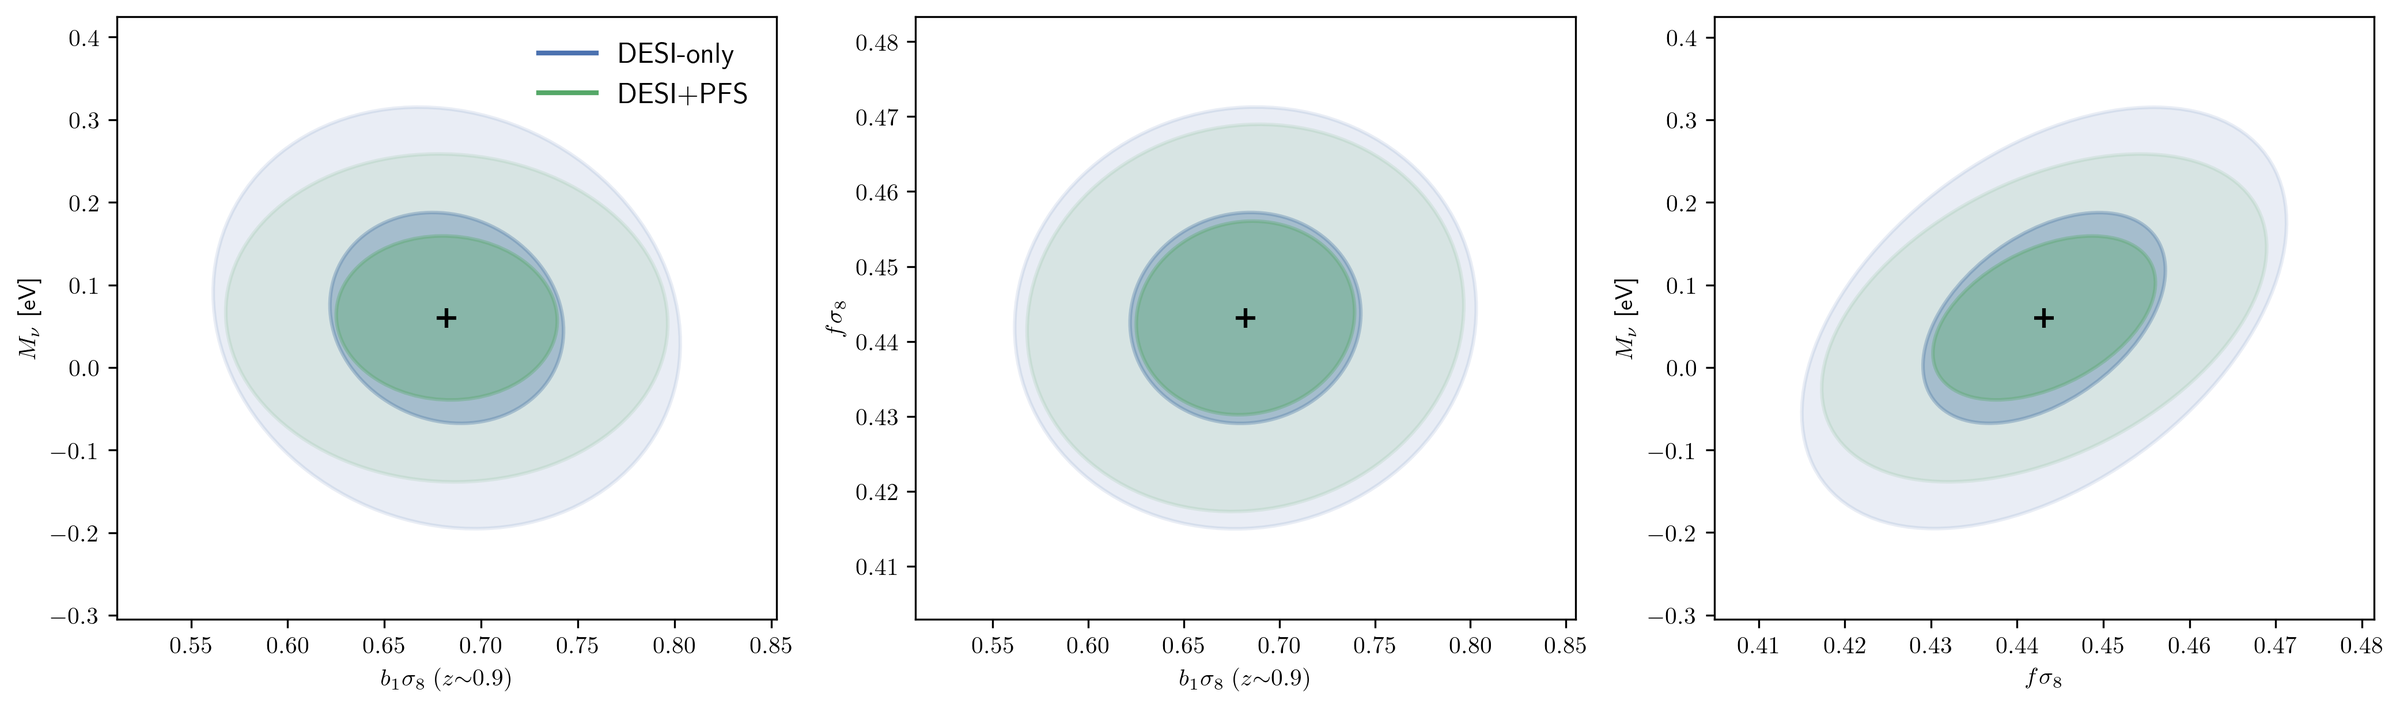
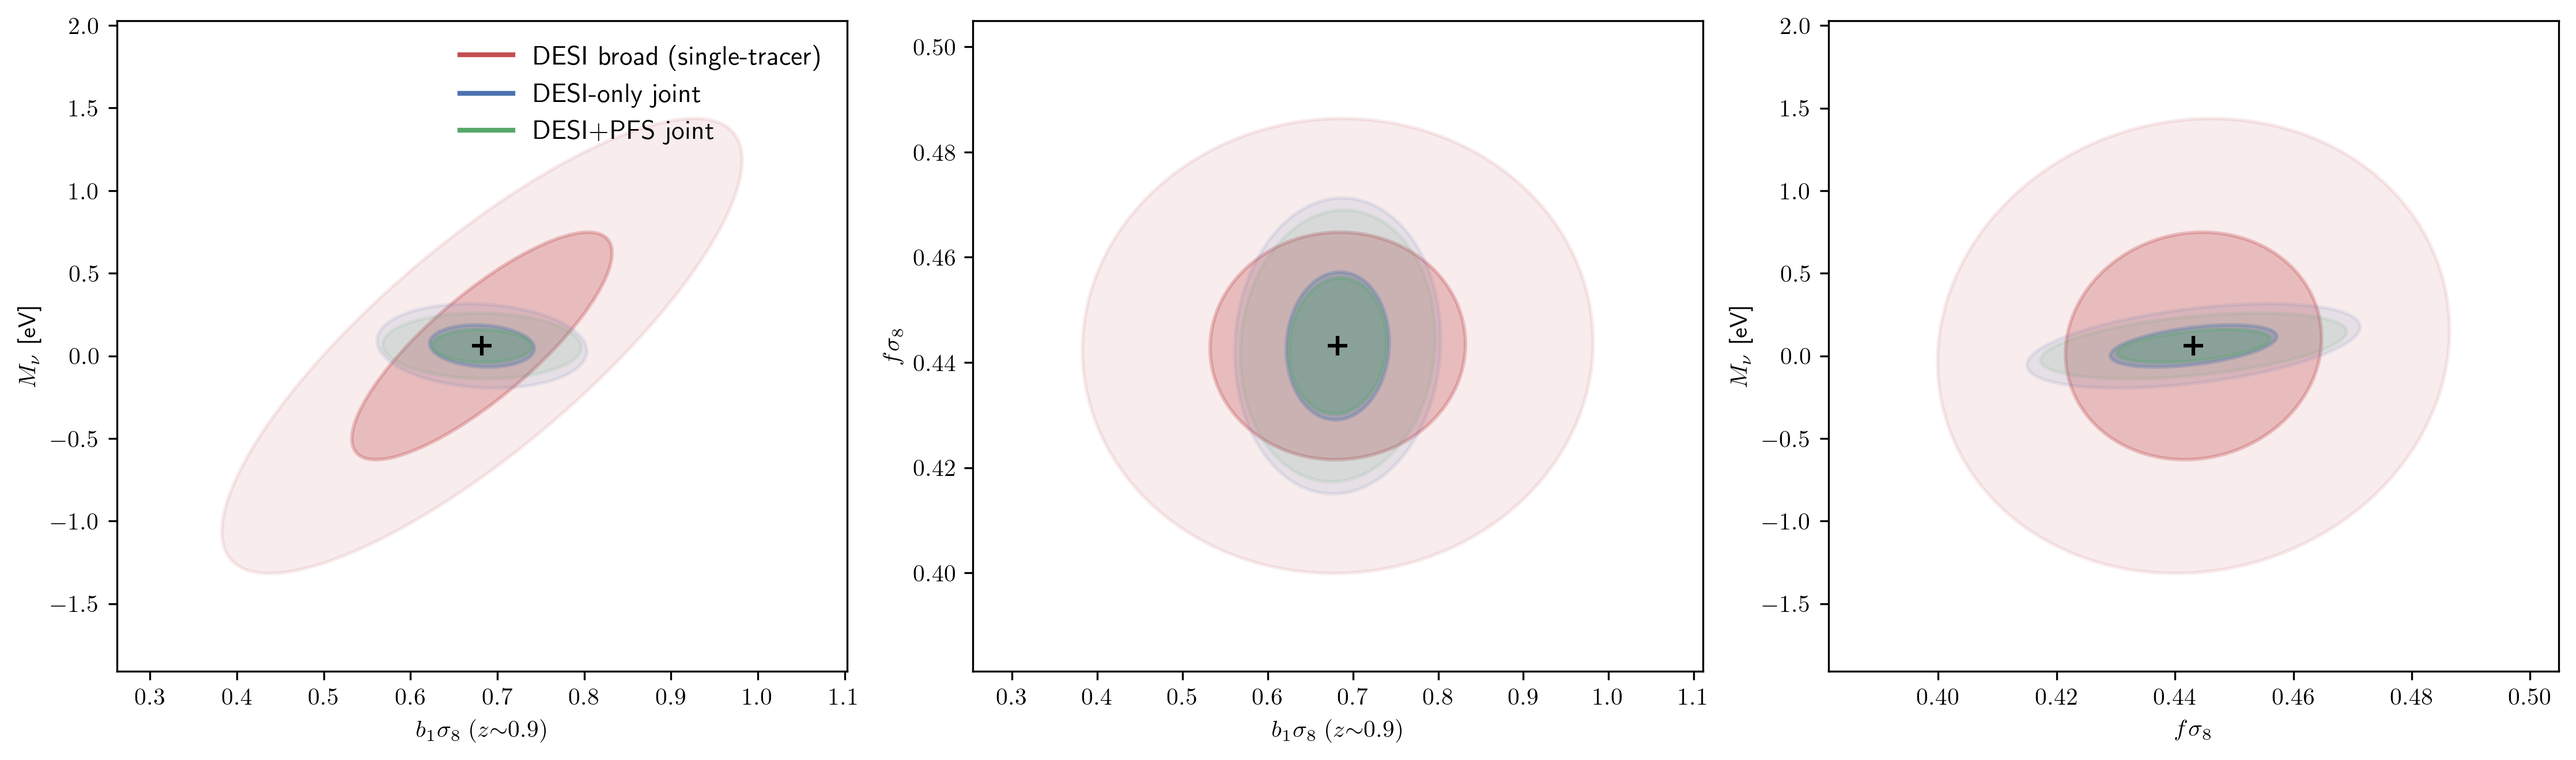
Update draft

diff --git a/paper/PFSxDESI-multi-fish.tex b/paper/PFSxDESI-multi-fish.tex
@@ -155,7 +155,7 @@ Full-shape analyses of the galaxy power
 spectrum, built on the effective field theory of large-scale
 structure
 (EFTofLSS)~\cite{Baumann:2010tm,Carrasco:2012cv,Carroll:2013oxa,Senatore:2014eva}, have now become the new standard in analyses of galaxy clustering in spectroscopic surveys.
-From their first applications on the Sloan Digital Sky Survey BOSS galaxy samples~\citep[e.g.,][]{dAmico:2019fhj,Ivanov:2019pdj}, full-shape EFT analyses have improved LSS constraints on, for example, neutrino masses~\cite{Colas:2019ret,Ivanov:2019hqk,Chudaykin:2025lww}, primordial
+From their first applications on the Sloan Digital Sky Survey BOSS galaxy samples~\citep[e.g.,][]{DAmico:2019fhj,Ivanov:2019pdj}, full-shape EFT analyses have improved LSS constraints on, for example, neutrino masses~\cite{Colas:2019ret,Ivanov:2019hqk,Chudaykin:2025lww}, primordial
 non-Gaussianity~\cite{Cabass:2022wjy,DAmico:2022gki,Chudaykin:2025vdh}, early dark energy~\cite{Ivanov:2020ril,DAmico:2020ods,Smith:2020rxx}, clustering dark energy~\cite{DAmico:2020tty}, interacting dark energy~\cite{Tsedrik:2025cwc}, ultra-light axions~\cite{Rogers:2023ezo} and dark-sector
 interactions~\cite{He:2023oke,He:2025npy}.
 More recently, the DESI collaboration~\cite{DESI:2024jxi,DESI:2024hhd,DESI:2025wzd} and independent
@@ -421,7 +421,7 @@ volumes. Because every observable is counted in exactly one of
 the two terms, no information is double-counted. We verify this
 algebraically by checking that, for the DESI-only configuration,
 \(F_z^{\rm overlap}+F_z^{\rm nonoverlap}=F_z(V_{\rm overlap}+V_{\rm
-nonoverlap})\) to numerical precision (see \cref{app:fisher}).
+nonoverlap})\) to numerical precision (see \cref{app:fisher_checks}).
 
 
 \subsection{Comparison with simulation-based priors}
@@ -608,7 +608,7 @@ magnitude larger than the ELG value. The leading counterterm
 \label{sec:mt_fisher}
 
 The observables are power spectrum multipoles
-\(P_\ell(k)\) for \(\ell=0,2,4\)~\cite{Ivanov:2019pdj,dAmico:2019fhj},
+\(P_\ell(k)\) for \(\ell=0,2,4\)~\cite{Ivanov:2019pdj,DAmico:2019fhj},
 computed for each auto- and cross-spectrum pair. At each wavenumber \(k\), the observable vector has \(3 N_{\rm spec}\) elements, where \(N_{\rm spec}=N_t(N_t{+}1)/2\) is the number of auto- and cross-spectrum pairs---up to 30 elements for 4 tracers.
 
 The Gaussian covariance at each \(k\) is
@@ -990,39 +990,49 @@ The dominant driver is the calibration of the linear bias
 suppresses small-scale power in a way that is nearly perfectly
 compensated by an increase in \(b_1\) (Fisher correlation
 \(-0.99\)); with a flat \(b_1\) prior this degeneracy fully
-propagates into the marginalized \(\sigma(\Mnu)\). Multi-tracer
-cross-correlations break the degeneracy at fixed signal: the
+propagates into the marginalized \(\sigma(\Mnu)\)
+(\cref{fig:fisher_contours}, red ellipse). Multi-tracer
+cross-correlations break this degeneracy at fixed signal: the
 McDonald--Seljak mechanism~\cite{McDonald:2008sh} extracts
-bias \emph{ratios} \(b_1^X/b_1^Y\) cosmic-variance-free from any pair
-of tracers in the same volume, while the \(k\)-dependent EFT shape
-information~\cite{Rubira:2025scu} pins down individual \(b_1\se\)
-values. In our joint Fisher, this calibration operates in two ways:
-DESI-LRG, DESI-ELG, and DESI-QSO already provide three bias-distinct
-tracers in the full \(14{,}000\;\text{deg}^2\) footprint; adding
-PFS-ELG in the \(1{,}200\;\text{deg}^2\) overlap contributes a
-fourth, low-bias ELG sample with distinct selection and shot noise.
-The joint Fisher tightens \(b_1\se\) for each
-DESI tracer in each redshift bin from a flat prior to
-\(\sigma\approx 0.06\)--\(0.13\) at \(z<1.6\), enough to collapse
-the \(b_1\)--\(f\)--\(\Mnu\) degeneracy. \Cref{fig:fisher_contours}
-visualizes this mechanism: the DESI-only ellipse in the
-\(b_1\se\)--\(\Mnu\) plane is elongated along the degeneracy
-direction; adding PFS contracts it further, with the largest
-relative gain on \(\Mnu\).
+bias \emph{ratios} \(b_1^X/b_1^Y\) cosmic-variance-free from any
+pair of tracers in the same volume, while the \(k\)-dependent
+EFT shape information~\cite{Rubira:2025scu} pins down individual
+\(b_1\se\) values. The DESI-only joint analysis already exploits
+this through its three bias-distinct tracers in the full
+\(14{,}000\;\text{deg}^2\) footprint, collapsing the broad-prior
+ellipse to the blue contour in \cref{fig:fisher_contours}.
+Adding PFS-ELG in the \(1{,}200\;\text{deg}^2\) overlap
+contributes a fourth, low-bias ELG sample with distinct
+selection and shot noise; the resulting 4-tracer
+cross-correlations tighten \(b_1\se\) for each (DESI tracer,
+redshift bin) further to \(\sigma\approx 0.06\)--\(0.13\) at
+\(z<1.6\), shrinking the contour to the green ellipse. The
+largest fractional gain is on \(\sigma(\Mnu)\) (22\%) precisely
+because the marginalized \(\Mnu\) constraint inherits the
+residual \(b_1\se\) posterior width, and that posterior contracts
+most where PFS adds new cross-spectra (\(z<1.6\)).
 
 \begin{figure}[t]
 \centering
 \includegraphics[width=\textwidth]{\figurespath/fisher_contours.png}
-\caption{Joint-Fisher contours (1\(\sigma\) and 2\(\sigma\)) in the
+\caption{Fisher contours (1\(\sigma\) and 2\(\sigma\)) in the
 \(b_1\se\)--\(\Mnu\), \(b_1\se\)--\(f\se\), and
-\(f\se\)--\(\Mnu\) planes, comparing the DESI-only joint
-analysis (blue) with the DESI+PFS joint analysis (green).
-The near-perfect \(b_1\)--\(\Mnu\) degeneracy (left panel) is
-the dominant driver of the improvement on \(\sigma(\Mnu)\):
+\(f\se\)--\(\Mnu\) planes, comparing three scenarios. Red: DESI
+single-tracer analysis with broad nuisance priors (no
+multi-tracer information); the near-perfect \(b_1\)--\(\Mnu\)
+degeneracy fully propagates into the marginalized \(\Mnu\)
+contour. Blue: DESI-only joint Fisher with internal
+LRG\,$\times$\,ELG\,$\times$\,QSO multi-tracer cross-correlations
+across the full \(14{,}000\;\text{deg}^2\) footprint; the
+McDonald--Seljak mechanism breaks the \(b_1\se\) degeneracy from
+data, collapsing the contour. Green: DESI+PFS joint Fisher,
 adding the PFS-ELG sample in the \(1{,}200\;\text{deg}^2\)
-overlap further collapses the \(b_1\se\)--\(\Mnu\) contour
-already partially closed by DESI-internal multi-tracer
-self-calibration. \(b_1\se\) shown for DESI-ELG at the
+overlap; the 4-tracer cross-correlations further tighten
+\(b_1\se\) and \(\Mnu\). The DESI-internal multi-tracer self-cal
+is doing the heavy lifting on the \(b_1\)--\(\Mnu\) degeneracy;
+PFS contributes the residual tightening that yields the 22\%
+improvement on \(\sigma(\Mnu)\) reported in
+\cref{tab:headline}. \(b_1\se\) shown for DESI-ELG at the
 representative bin \(z=[0.8,\,1.0]\); cosmology shared globally
 across the 8 redshift bins covering \(0.4<z<2.1\).}
 \label{fig:fisher_contours}

diff --git a/scripts/fig_fisher_contours.py b/scripts/fig_fisher_contours.py
@@ -1,11 +1,21 @@
 #!/usr/bin/env python
-"""Fisher contour figure: DESI-only joint vs DESI+PFS joint.
+"""Fisher contour figure: broad single-tracer vs DESI-only joint vs DESI+PFS joint.
 
-Three panels showing 1- and 2-σ ellipses for the cosmology pairs
-(b₁σ₈ at z∼0.9, Mν), (b₁σ₈ at z∼0.9, fσ₈), and (fσ₈, Mν). The b₁σ₈
-column is the DESI-ELG nuisance in the z=[0.8, 1.0] bin (chosen as
-representative; other bins look similar). All three cosmology parameters
-are shared globally in the joint Fisher.
+Three panels showing 1- and 2-sigma ellipses for the cosmology pairs
+(b1*sigma8 at z~0.9, M_nu), (b1*sigma8 at z~0.9, f*sigma8), and (f*sigma8, M_nu).
+
+The b1*sigma8 column is the DESI-ELG nuisance in the z=[0.8, 1.0] bin
+(representative; other bins look similar). All three cosmology
+parameters are shared globally.
+
+The three scenarios:
+- DESI single-tracer broad: each (DESI tracer, z-bin) analyzed independently
+  with broad nuisance priors. The b1*sigma8-Mnu degeneracy runs free.
+- DESI-only joint: multi-tracer Fisher across LRG, ELG, QSO with internal
+  cross-correlations. The McDonald-Seljak mechanism breaks the
+  b1*sigma8 degeneracy from data.
+- DESI+PFS joint: adds PFS-ELG in the 1,200 deg^2 overlap. Further
+  tightens b1*sigma8 and Mnu via the 4-tracer cross-correlations.
 """
 from __future__ import annotations
 
@@ -25,7 +35,9 @@ from matplotlib.patches import Ellipse
 
 from pfsfog.config import ForecastConfig
 from pfsfog.cosmo import FiducialCosmology
-from pfsfog.fisher_joint import run_joint_fisher
+from pfsfog.fisher_joint import (
+    run_broad_baseline, run_joint_fisher,
+)
 from pfsfog.surveys import (
     SurveyGroup, desi_elg, desi_lrg, desi_qso, pfs_elg,
 )
@@ -50,80 +62,46 @@ def _build():
         desi_full_area_deg2=cfg.desi_area_deg2,
         pfs_zmax=1.6,
     )
+    res_b = run_broad_baseline(cfg, cosmo, ps, sg, zbins=ZBINS)
     res_d = run_joint_fisher(cfg, cosmo, ps, sg, include_pfs=False, zbins=ZBINS)
     res_j = run_joint_fisher(cfg, cosmo, ps, sg, include_pfs=True, zbins=ZBINS)
-    return cosmo, res_d, res_j
-
-
-def _ellipse_panel(ax, Cd, Cj, ix, iy, xc, yc, xlabel, ylabel):
-    for C, color, label in [(Cd, "#4C72B0", "DESI-only"),
-                            (Cj, "#55A868", "DESI+PFS")]:
-        c2 = np.array([[C[ix, ix], C[ix, iy]],
-                       [C[iy, ix], C[iy, iy]]])
-        vals, vecs = np.linalg.eigh(c2)
-        vals = np.maximum(vals, 1e-30)
-        ang = np.degrees(np.arctan2(vecs[1, 0], vecs[0, 0]))
-        for ns, al in [(1, 0.35), (2, 0.12)]:
-            w = 2 * ns * np.sqrt(vals[0])
-            h = 2 * ns * np.sqrt(vals[1])
-            e = Ellipse(xy=(xc, yc), width=w, height=h, angle=ang,
-                        fill=True, facecolor=color, alpha=al,
-                        edgecolor=color, linewidth=1.5)
-            ax.add_patch(e)
-        ax.plot([], [], color=color, lw=2, label=label)
-    ax.set_xlabel(xlabel)
-    ax.set_ylabel(ylabel)
-    ax.autoscale_view()
-    x1, x2 = ax.get_xlim(); y1, y2 = ax.get_ylim()
-    dx = (x2 - x1) * 0.15; dy = (y2 - y1) * 0.15
-    ax.set_xlim(x1 - dx, x2 + dx)
-    ax.set_ylim(y1 - dy, y2 + dy)
-    ax.plot(xc, yc, "+", color="k", ms=8, mew=1.5)
+    return cosmo, res_b, res_d, res_j
 
 
 def main():
-    cosmo, res_d, res_j = _build()
+    cosmo, res_b, res_d, res_j = _build()
 
+    Cb = np.linalg.inv(res_b.fisher.F)
     Cd = np.linalg.inv(res_d.fisher.F)
     Cj = np.linalg.inv(res_j.fisher.F)
 
+    pn_b = res_b.fisher.param_names
     pn_d = res_d.fisher.param_names
     pn_j = res_j.fisher.param_names
 
-    # Picks: representative b1σ8 = DESI-ELG at z=[0.8, 1.0]
+    # Representative b1*sigma8: DESI-ELG at z=[0.8, 1.0]
     label_b = "b1_sigma8_DESI-ELG_z0.80-1.00"
-    ix_d_b = pn_d.index(label_b)
-    ix_j_b = pn_j.index(label_b)
-    ix_d_f = pn_d.index("fsigma8")
-    ix_j_f = pn_j.index("fsigma8")
-    ix_d_m = pn_d.index("Mnu")
-    ix_j_m = pn_j.index("Mnu")
 
     # Fiducials at z=0.9
     xf = float(cosmo.f(0.9)) * cosmo.sigma8(0.9)
     xm = 0.06
     xb = desi_elg().b1_of_z(0.9) * cosmo.sigma8(0.9)
 
-    fig, axes = plt.subplots(1, 3, figsize=(14, 4.2))
-
-    # Build per-panel sub-covariances by index
     def sub(C, names, names_pair):
         i, j = names.index(names_pair[0]), names.index(names_pair[1])
         return np.array([[C[i, i], C[i, j]], [C[j, i], C[j, j]]])
 
-    # Panel 1: (b1σ8, Mν)
-    _ellipse_panel(axes[0], Cd, Cj,
-                   ix_d_b, ix_d_m, xb, xm,
-                   r"$b_1\sigma_8\;(z{\sim}0.9)$", r"$M_\nu$ [eV]")
-
-    # For DESI+PFS, indices may differ — rebuild for each panel using sub-blocks
-    def panel(ax, Cd_pair, Cj_pair, xc, yc, xl, yl):
-        for C, color, label in [(Cd_pair, "#4C72B0", "DESI-only"),
-                                (Cj_pair, "#55A868", "DESI+PFS")]:
-            vals, vecs = np.linalg.eigh(C)
+    def panel(ax, sub_b, sub_d, sub_j, xc, yc, xl, yl):
+        scenarios = [
+            (sub_b, "#C44E52", "DESI broad (single-tracer)"),
+            (sub_d, "#4C72B0", "DESI-only joint"),
+            (sub_j, "#55A868", "DESI+PFS joint"),
+        ]
+        for Cpair, color, label in scenarios:
+            vals, vecs = np.linalg.eigh(Cpair)
             vals = np.maximum(vals, 1e-30)
             ang = np.degrees(np.arctan2(vecs[1, 0], vecs[0, 0]))
-            for ns, al in [(1, 0.35), (2, 0.12)]:
+            for ns, al in [(1, 0.30), (2, 0.10)]:
                 w = 2 * ns * np.sqrt(vals[0])
                 h = 2 * ns * np.sqrt(vals[1])
                 e = Ellipse(xy=(xc, yc), width=w, height=h, angle=ang,
@@ -140,21 +118,25 @@ def main():
         ax.set_ylim(y1 - dy, y2 + dy)
         ax.plot(xc, yc, "+", color="k", ms=8, mew=1.5)
 
-    axes[0].clear()
+    fig, axes = plt.subplots(1, 3, figsize=(15, 4.5))
+
     panel(axes[0],
+          sub(Cb, pn_b, (label_b, "Mnu")),
           sub(Cd, pn_d, (label_b, "Mnu")),
           sub(Cj, pn_j, (label_b, "Mnu")),
           xb, xm, r"$b_1\sigma_8\;(z{\sim}0.9)$", r"$M_\nu$ [eV]")
     panel(axes[1],
+          sub(Cb, pn_b, (label_b, "fsigma8")),
           sub(Cd, pn_d, (label_b, "fsigma8")),
           sub(Cj, pn_j, (label_b, "fsigma8")),
           xb, xf, r"$b_1\sigma_8\;(z{\sim}0.9)$", r"$f\sigma_8$")
     panel(axes[2],
+          sub(Cb, pn_b, ("fsigma8", "Mnu")),
           sub(Cd, pn_d, ("fsigma8", "Mnu")),
           sub(Cj, pn_j, ("fsigma8", "Mnu")),
           xf, xm, r"$f\sigma_8$", r"$M_\nu$ [eV]")
 
-    axes[0].legend(frameon=False, fontsize=12, loc="upper right")
+    axes[0].legend(frameon=False, fontsize=11, loc="upper right")
 
     fig.tight_layout()
     fig.savefig(OUT / "fisher_contours.png", bbox_inches="tight", dpi=300)

diff --git a/pfsfog/fisher_joint.py b/pfsfog/fisher_joint.py
@@ -509,3 +509,79 @@ def run_joint_fisher(
     return JointFisherResult(
         fisher=fr, sigma=sigma, per_zbin_active=per_zbin_active,
     )
+
+
+def run_broad_baseline(
+    cfg,
+    cosmo,
+    ps,
+    sg: SurveyGroup,
+    zbins: list[tuple[float, float]],
+    add_cosmo_priors: bool = True,
+) -> JointFisherResult:
+    """DESI single-tracer broad-prior baseline (no multi-tracer info).
+
+    Builds, per (DESI tracer, z-bin), an independent single-tracer
+    auto-spectrum Fisher at the full DESI footprint volume, then combines
+    them in the same (cosmo + per-(tracer, z-bin) nuisance) parameter
+    space as the joint Fisher. Cross-spectra are excluded — this is the
+    legacy "DESI alone, no multi-tracer" reference scenario in which the
+    b1*sigma8-Mnu degeneracy runs free under the broad nuisance priors.
+    """
+    per_zbin = []
+    per_zbin_active = []
+    for zb in zbins:
+        active_desi = sg.active_desi(zb[0], zb[1])
+        if not active_desi:
+            continue
+        V_full = sg.V_desi_full(zb[0], zb[1])
+
+        zbin_fishers = []
+        zbin_names_list = []
+        for tn, surv in active_desi.items():
+            F, names = build_zbin_fisher(
+                zb, {tn: surv}, V_full, cosmo, ps, cfg,
+            )
+            zbin_fishers.append(F)
+            zbin_names_list.append(names)
+
+        union: list[str] = list(COSMO_NAMES)
+        for nl in zbin_names_list:
+            for n in nl:
+                if n not in union:
+                    union.append(n)
+        F_total = np.zeros((len(union), len(union)))
+        for F, nl in zip(zbin_fishers, zbin_names_list):
+            F_total += embed_fisher(F, nl, union)
+
+        per_zbin.append((F_total, union))
+        per_zbin_active.append(sorted(active_desi.keys()))
+
+    fr = combine_zbins_heterogeneous(
+        per_zbin, survey_name="DESI single-tracer broad",
+    )
+
+    if add_cosmo_priors:
+        prior_diag = np.zeros(len(fr.param_names))
+        for i, pn in enumerate(fr.param_names):
+            if pn in COSMO_PRIOR_SIGMA:
+                prior_diag[i] = 1.0 / COSMO_PRIOR_SIGMA[pn] ** 2
+            else:
+                for nuis in NUISANCE_NAMES:
+                    if pn.startswith(nuis + "_"):
+                        s = broad_priors().sigma_dict()[nuis]
+                        if s is not None:
+                            prior_diag[i] = 1.0 / s ** 2
+                        break
+        fr = FisherResult(
+            F=fr.F + np.diag(prior_diag),
+            param_names=fr.param_names,
+            z_bin=fr.z_bin,
+            survey_name=fr.survey_name,
+            kmax=fr.kmax,
+        )
+
+    sigma = {cp: fr.marginalized_sigma(cp) for cp in COSMO_NAMES}
+    return JointFisherResult(
+        fisher=fr, sigma=sigma, per_zbin_active=per_zbin_active,
+    )
